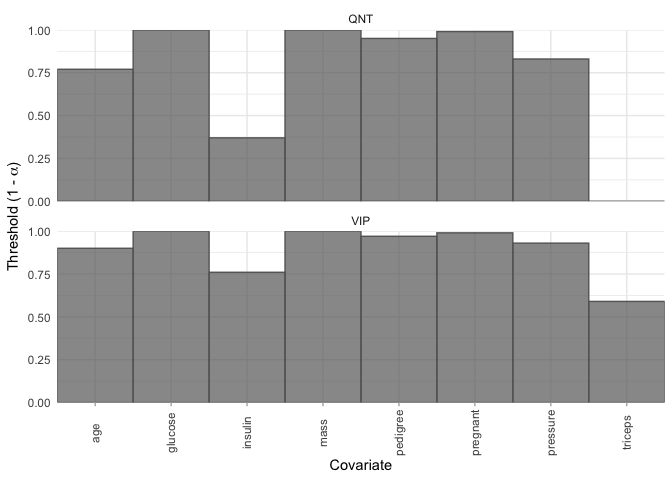
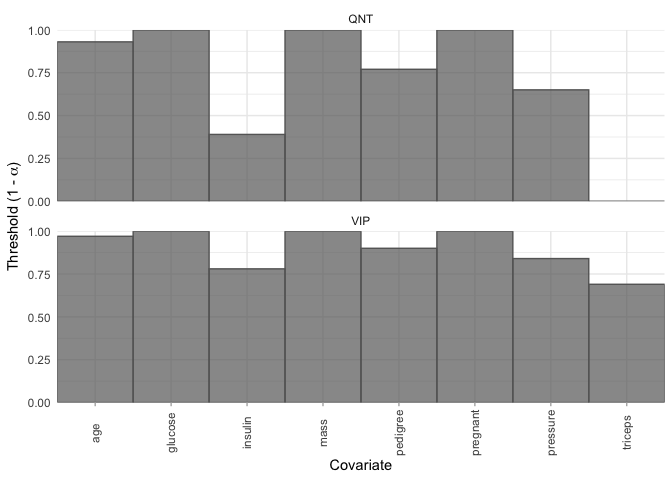
Update README :book:

diff --git a/README.md b/README.md
@@ -94,18 +94,18 @@ cross-validation error.
 ``` r
 selected_variables(model, threshold = 0.95, method = "vip", select = "lambda.min")
 #> # A tibble: 100 × 5
-#>    id     pregnant glucose   mass pedigree
-#>    <chr>     <dbl>   <dbl>  <dbl>    <dbl>
-#>  1 boot1    0.0957  0.0428 0.0811    0.845
-#>  2 boot2    0       0.0367 0.0850    0.193
-#>  3 boot3    0.0713  0.0258 0.0833    0.667
-#>  4 boot4    0.0908  0.0349 0.0649    0.573
-#>  5 boot5    0.217   0.0462 0.0680    0.813
-#>  6 boot6    0.0930  0.0305 0.0814    0.372
-#>  7 boot7    0.0516  0.0404 0.0875    1.18 
-#>  8 boot8    0.0582  0.0327 0.0567    0.722
-#>  9 boot9    0.0617  0.0360 0.104     0.353
-#> 10 boot10   0.0389  0.0353 0.0721    0    
+#>    id     pregnant glucose   mass    age
+#>    <chr>     <dbl>   <dbl>  <dbl>  <dbl>
+#>  1 boot1    0.117   0.0384 0.0800 0.0145
+#>  2 boot2    0.112   0.0331 0.0675 0.0115
+#>  3 boot3    0.143   0.0257 0.112  0.0135
+#>  4 boot4    0.130   0.0240 0.0789 0.0240
+#>  5 boot5    0.0473  0.0215 0.0793 0.0183
+#>  6 boot6    0.0634  0.0247 0.0666 0.0346
+#>  7 boot7    0.101   0.0326 0.0656 0.0194
+#>  8 boot8    0.0761  0.0258 0.0937 0.0359
+#>  9 boot9    0.202   0.0238 0.0613 0.0113
+#> 10 boot10   0.0926  0.0337 0.0779 0.0293
 #> # ℹ 90 more rows
 ```
 
@@ -116,7 +116,7 @@ want to simply return only the variable names, you can add the
 
 ``` r
 selected_variables(model, 0.95, "vip", var_names_only = TRUE)
-#> [1] "pregnant" "glucose"  "mass"     "pedigree"
+#> [1] "pregnant" "glucose"  "mass"     "age"
 ```
 
 We can compare the selected variables using the VIP method to the QNT
@@ -125,7 +125,7 @@ interval that does not contain 0:
 
 ``` r
 selected_variables(model, 0.95, "qnt", var_names_only = TRUE)
-#> [1] "pregnant" "glucose"  "mass"     "pedigree"
+#> [1] "pregnant" "glucose"  "mass"
 ```
 
 Note that the number of selected variables with QNT will always be \<=
@@ -151,22 +151,22 @@ selection_thresholds(model, select = "lambda.min")
 #> # A tibble: 16 × 5
 #>    covariate method threshold  alpha covariate_id
 #>    <chr>     <chr>      <dbl>  <dbl>        <int>
-#>  1 age       QNT         0.77 0.23              8
+#>  1 age       QNT         0.93 0.0700            8
 #>  2 glucose   QNT         1    0                 2
-#>  3 insulin   QNT         0.37 0.63              5
+#>  3 insulin   QNT         0.39 0.61              5
 #>  4 mass      QNT         1    0                 6
-#>  5 pedigree  QNT         0.95 0.0500            7
-#>  6 pregnant  QNT         0.99 0.0100            1
-#>  7 pressure  QNT         0.83 0.17              3
+#>  5 pedigree  QNT         0.77 0.23              7
+#>  6 pregnant  QNT         1    0                 1
+#>  7 pressure  QNT         0.65 0.35              3
 #>  8 triceps   QNT         0    1                 4
-#>  9 age       VIP         0.9  0.1               8
+#>  9 age       VIP         0.97 0.0300            8
 #> 10 glucose   VIP         1    0                 2
-#> 11 insulin   VIP         0.76 0.24              5
+#> 11 insulin   VIP         0.78 0.22              5
 #> 12 mass      VIP         1    0                 6
-#> 13 pedigree  VIP         0.97 0.0300            7
-#> 14 pregnant  VIP         0.99 0.0100            1
-#> 15 pressure  VIP         0.93 0.0700            3
-#> 16 triceps   VIP         0.59 0.41              4
+#> 13 pedigree  VIP         0.9  0.1               7
+#> 14 pregnant  VIP         1    0                 1
+#> 15 pressure  VIP         0.84 0.16              3
+#> 16 triceps   VIP         0.69 0.31              4
 ```
 
 ### Coefficients
@@ -181,18 +181,18 @@ fold, and the values are the corresponding estimated coefficients.
 ``` r
 tidy(model, select = "lambda.min")
 #> # A tibble: 100 × 10
-#>    id     Intercept pregnant glucose pressure  triceps   insulin   mass pedigree
-#>    <chr>      <dbl>    <dbl>   <dbl>    <dbl>    <dbl>     <dbl>  <dbl>    <dbl>
-#>  1 boot1      -9.91   0.0957  0.0428 -0.00212 -0.00254 -0.00429  0.0811    0.845
-#>  2 boot2      -7.77   0       0.0367 -0.00859 -0.00789 -0.00100  0.0850    0.193
-#>  3 boot3      -7.26   0.0713  0.0258 -0.00562  0       -0.000884 0.0833    0.667
-#>  4 boot4      -7.92   0.0908  0.0349 -0.0115   0.0153   0        0.0649    0.573
-#>  5 boot5      -8.48   0.217   0.0462 -0.0128  -0.00260 -0.00137  0.0680    0.813
-#>  6 boot6      -8.20   0.0930  0.0305 -0.00585  0.0121  -0.00186  0.0814    0.372
-#>  7 boot7     -10.2    0.0516  0.0404  0.00272 -0.00765 -0.00179  0.0875    1.18 
-#>  8 boot8      -7.29   0.0582  0.0327 -0.00830  0       -0.00185  0.0567    0.722
-#>  9 boot9      -8.96   0.0617  0.0360 -0.0201   0       -0.000922 0.104     0.353
-#> 10 boot10     -8.23   0.0389  0.0353  0        0        0        0.0721    0    
+#>    id     Intercept pregnant glucose pressure triceps   insulin   mass pedigree
+#>    <chr>      <dbl>    <dbl>   <dbl>    <dbl>   <dbl>     <dbl>  <dbl>    <dbl>
+#>  1 boot1      -8.80   0.117   0.0384 -0.00768 0.00459 -0.00313  0.0800  1.08   
+#>  2 boot2      -7.26   0.112   0.0331 -0.00633 0.00873 -0.00246  0.0675  0.00375
+#>  3 boot3      -7.17   0.143   0.0257 -0.0221  0.00815 -0.00262  0.112   0.717  
+#>  4 boot4      -7.08   0.130   0.0240 -0.0133  0.00517  0        0.0789  0.716  
+#>  5 boot5      -6.14   0.0473  0.0215 -0.00661 0.00237 -0.00173  0.0793  0.305  
+#>  6 boot6      -7.92   0.0634  0.0247  0       0       -0.000142 0.0666  1.10   
+#>  7 boot7      -6.88   0.101   0.0326 -0.0224  0.0129  -0.00100  0.0656  1.16   
+#>  8 boot8      -7.93   0.0761  0.0258 -0.0141  0.0102  -0.00103  0.0937  0.471  
+#>  9 boot9      -6.37   0.202   0.0238 -0.00875 0.0106  -0.000555 0.0613  0      
+#> 10 boot10     -8.39   0.0926  0.0337 -0.0104  0.00500 -0.000949 0.0779  0.793  
 #> # ℹ 90 more rows
 #> # ℹ 1 more variable: age <dbl>
 ```
@@ -263,25 +263,25 @@ probabilites on our `test` data.
 ``` r
 as_tibble(predict(model, test, select = "lambda.min", type = "response"))
 #> # A tibble: 230 × 100
-#>     boot1  boot2  boot3  boot4  boot5  boot6  boot7  boot8  boot9 boot10 boot11
-#>     <dbl>  <dbl>  <dbl>  <dbl>  <dbl>  <dbl>  <dbl>  <dbl>  <dbl>  <dbl>  <dbl>
-#>  1 0.818  0.635  0.634  0.729  0.716  0.789  0.735  0.699  0.755  0.676  0.628 
-#>  2 0.877  0.736  0.631  0.724  0.937  0.698  0.811  0.767  0.701  0.715  0.784 
-#>  3 0.0276 0.0700 0.0704 0.0567 0.0338 0.0625 0.0292 0.0556 0.0380 0.0715 0.0682
-#>  4 0.578  0.809  0.630  0.891  0.722  0.773  0.729  0.686  0.861  0.896  0.579 
-#>  5 0.697  0.625  0.531  0.684  0.683  0.654  0.690  0.646  0.683  0.689  0.543 
-#>  6 0.262  0.435  0.439  0.457  0.214  0.474  0.379  0.305  0.418  0.478  0.296 
-#>  7 0.218  0.196  0.211  0.149  0.256  0.214  0.168  0.197  0.157  0.202  0.258 
-#>  8 0.403  0.276  0.343  0.226  0.261  0.395  0.337  0.308  0.343  0.313  0.309 
-#>  9 0.830  0.744  0.669  0.622  0.786  0.743  0.768  0.675  0.778  0.733  0.682 
-#> 10 0.0296 0.0682 0.0695 0.0590 0.0427 0.0523 0.0382 0.0642 0.0342 0.0683 0.0710
+#>    boot1 boot2 boot3 boot4 boot5 boot6 boot7 boot8 boot9 boot10 boot11 boot12
+#>    <dbl> <dbl> <dbl> <dbl> <dbl> <dbl> <dbl> <dbl> <dbl>  <dbl>  <dbl>  <dbl>
+#>  1 0.784 0.732 0.747 0.687 0.669 0.684 0.783 0.717 0.675  0.763  0.643  0.768
+#>  2 0.239 0.295 0.260 0.212 0.353 0.232 0.156 0.199 0.249  0.215  0.268  0.161
+#>  3 0.644 0.600 0.482 0.595 0.523 0.646 0.700 0.566 0.555  0.696  0.581  0.661
+#>  4 0.321 0.316 0.633 0.431 0.367 0.203 0.558 0.349 0.407  0.331  0.369  0.376
+#>  5 0.239 0.259 0.283 0.253 0.335 0.262 0.308 0.265 0.215  0.264  0.242  0.285
+#>  6 0.370 0.362 0.389 0.410 0.413 0.419 0.441 0.371 0.373  0.407  0.357  0.367
+#>  7 0.958 0.931 0.903 0.858 0.865 0.873 0.893 0.860 0.861  0.931  0.874  0.862
+#>  8 0.355 0.445 0.385 0.320 0.334 0.234 0.338 0.257 0.514  0.294  0.352  0.272
+#>  9 0.427 0.517 0.508 0.505 0.426 0.378 0.480 0.426 0.644  0.460  0.481  0.393
+#> 10 0.465 0.446 0.536 0.500 0.532 0.541 0.496 0.564 0.435  0.526  0.432  0.567
 #> # ℹ 220 more rows
-#> # ℹ 89 more variables: boot12 <dbl>, boot13 <dbl>, boot14 <dbl>, boot15 <dbl>,
-#> #   boot16 <dbl>, boot17 <dbl>, boot18 <dbl>, boot19 <dbl>, boot20 <dbl>,
-#> #   boot21 <dbl>, boot22 <dbl>, boot23 <dbl>, boot24 <dbl>, boot25 <dbl>,
-#> #   boot26 <dbl>, boot27 <dbl>, boot28 <dbl>, boot29 <dbl>, boot30 <dbl>,
-#> #   boot31 <dbl>, boot32 <dbl>, boot33 <dbl>, boot34 <dbl>, boot35 <dbl>,
-#> #   boot36 <dbl>, boot37 <dbl>, boot38 <dbl>, boot39 <dbl>, boot40 <dbl>, …
+#> # ℹ 88 more variables: boot13 <dbl>, boot14 <dbl>, boot15 <dbl>, boot16 <dbl>,
+#> #   boot17 <dbl>, boot18 <dbl>, boot19 <dbl>, boot20 <dbl>, boot21 <dbl>,
+#> #   boot22 <dbl>, boot23 <dbl>, boot24 <dbl>, boot25 <dbl>, boot26 <dbl>,
+#> #   boot27 <dbl>, boot28 <dbl>, boot29 <dbl>, boot30 <dbl>, boot31 <dbl>,
+#> #   boot32 <dbl>, boot33 <dbl>, boot34 <dbl>, boot35 <dbl>, boot36 <dbl>,
+#> #   boot37 <dbl>, boot38 <dbl>, boot39 <dbl>, boot40 <dbl>, boot41 <dbl>, …
 ```
 
 Note that this outputs an (n x p) matrix of predictions where n is the
@@ -299,16 +299,16 @@ tibble(
 #> # A tibble: 230 × 1
 #>    predictions
 #>          <dbl>
-#>  1      0.696 
-#>  2      0.744 
-#>  3      0.0533
-#>  4      0.747 
-#>  5      0.623 
-#>  6      0.397 
-#>  7      0.196 
-#>  8      0.309 
-#>  9      0.722 
-#> 10      0.0536
+#>  1       0.704
+#>  2       0.254
+#>  3       0.637
+#>  4       0.372
+#>  5       0.268
+#>  6       0.395
+#>  7       0.906
+#>  8       0.328
+#>  9       0.465
+#> 10       0.470
 #> # ℹ 220 more rows
 ```
 
@@ -428,8 +428,8 @@ model_fast_preds <- ifelse(
 truth <- as.integer(test$diabetes) - 1
 ```
 
-    #> Standard Bolasso accuracy: 77.39 %
-    #>  Fast Bolasso accuracy: 78.7 %
+    #> Standard Bolasso accuracy: 80.87 %
+    #>  Fast Bolasso accuracy: 80.43 %
 
 It’s important to note that fast bolasso should be thought of more as a
 rough-and-ready algorithm that is better for quick iteration and might
@@ -469,8 +469,8 @@ time_sequential <- system.time({
 })
 ```
 
-    #> Parallel bolasso time (seconds): 10.827 
-    #> Sequential bolasso time (seconds): 41.749
+    #> Parallel bolasso time (seconds): 10.921 
+    #> Sequential bolasso time (seconds): 42.562
 
 ### Beyond the Lasso
 
@@ -501,8 +501,8 @@ elnet <- bolasso(
 )
 ```
 
-    #> Lasso selected variables: pregnant glucose mass 
-    #> Elnet selected variables: pregnant glucose pressure mass pedigree age
+    #> Lasso selected variables: pregnant glucose mass age 
+    #> Elnet selected variables: pregnant glucose mass pedigree age
 
 ## References
 
